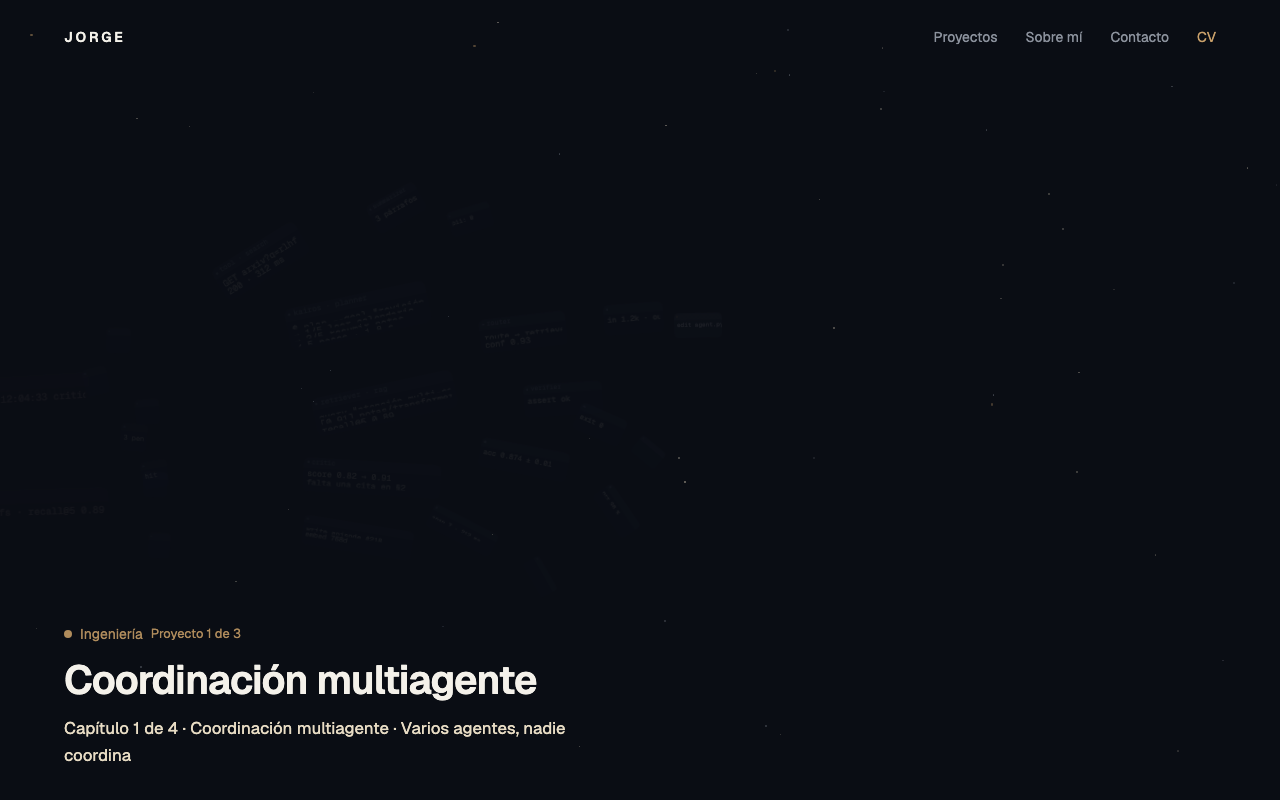
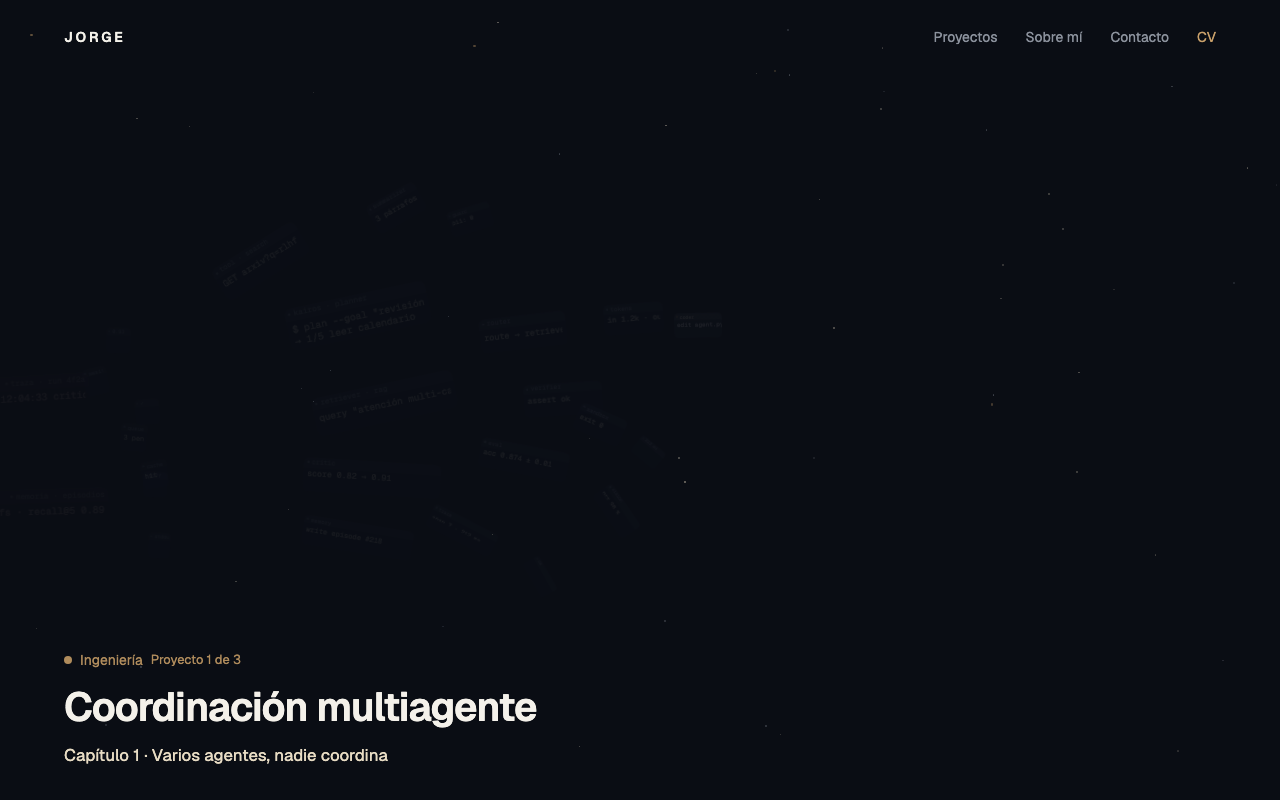
fix(f6): nombres y líneas de las ventanas como la referencia; anticipo sin repetir el título

Changed region(s): [[0.0312, 0.7812, 0.4375, 0.9688]]

diff --git a/tests/e2e/hero.spec.ts b/tests/e2e/hero.spec.ts
@@ -315,3 +315,30 @@ test('CLS de la carga y entrada bajo 0,01', async ({ page }) => {
   );
   expect(cls).toBeLessThan(0.01);
 });
+
+test('escritorio: las 26 ventanas muestran su nombre y ninguna línea desborda', async ({
+  page,
+}) => {
+  await page.setViewportSize({ width: 1280, height: 800 });
+  await page.emulateMedia({ reducedMotion: 'reduce' });
+  await page.goto('/');
+  const nombres = page.locator('[data-hero-arte] .ventana-nombre');
+  await expect(nombres).toHaveCount(26);
+  for (const nombre of await nombres.all()) await expect(nombre).toBeVisible();
+  await expect(page.locator('.ventana--punta .ventana-nombre')).toHaveText(
+    'coder',
+  );
+  // Cada línea visible cabe entera dentro de su ventana (nl de la referencia).
+  const desbordes = await page.locator('[data-hero-arte] .ventana').evaluateAll(
+    (ventanas) =>
+      ventanas.filter((v) => {
+        const caja = v.getBoundingClientRect();
+        return [...v.querySelectorAll('.ventana-lineas span')].some((s) => {
+          if (getComputedStyle(s).display === 'none') return false;
+          const linea = s.getBoundingClientRect();
+          return linea.height > 0 && linea.bottom > caja.bottom + 1;
+        });
+      }).length,
+  );
+  expect(desbordes).toBe(0);
+});

diff --git a/docs/encargos/F6-hero.md b/docs/encargos/F6-hero.md
@@ -1,6 +1,6 @@
 # F6 · Hero: las dos manos, su entrada y la transición al relato
 
-**Estado:** en revisión
+**Estado:** aprobada
 **Rama:** solicitada `f6-hero` (no se pudo crear porque `.git` está fuera de las rutas escribibles; cambios en checkout `F6`, sin commits) · **Depende de:** F5 (en `main`) · **Escrito por:** Claude · **Fecha:** 2026-10-26
 
 > Cómo lanzarlo en Codex: *«Lee AGENTS.md y docs/encargos/F6-hero.md. Implementa solo ese encargo y termina con el informe que pide.»*
@@ -438,4 +438,22 @@ Ve rellenándolo **durante** el trabajo (una línea por paso de § 2) y complét
 - No se creó ni verificó una rama Git separada por la restricción de escritura en `.git`; todas las verificaciones listadas sí se ejecutaron en el checkout actual.
 
 ## Revisión
-‹Lo escribe Claude.›
+**Claude, 2026-10-26.** Una entrega excelente para el modelo usado: siguió el orden de § 2 y fue registrando en el informe cada paso con su verificación. Geometría, composición y animación son puras y tienen tests, y la composición final coincide con `hero-final.html` casi al píxel.
+
+### Correcciones de Claude
+1. **Nombres de las ventanas ocultos en escritorio.** Las reglas `data-nombre-t='false'` y `data-nombre-m='false'` habían quedado fuera de sus media queries, así que ocultaban también en escritorio el nombre de todas las ventanas pequeñas, incluida la punta «coder». Se quitaron del ámbito global.
+2. **Límite de líneas (`nl` de la referencia) sin aplicar**, con las líneas encogidas una encima de otra (`flex-shrink`). Ahora cada línea lleva `data-linea-d/t/m` según la fórmula de `renderVals()` (`calcularLineas`) y `flex: none`.
+3. **Cabecera del antebrazo** alineada a la derecha (`justify-content: flex-end`), como en la referencia: ahora se leen «traza · run 4f2a» y «memoria · episodios».
+4. **El anticipo repetía el título del proyecto.** Ahora usa la clave `hero.capitulo` («Capítulo 1 · Varios agentes, nadie coordina»), como en el diseño.
+5. **Prueba de regresión:** las 26 ventanas muestran su nombre en escritorio y ninguna línea visible se desborda.
+
+Las capturas se regeneraron con las correcciones.
+
+### Verificación
+`check` limpio, 117/117 tests, build sin advertencias, 169/169 e2e y `-g "hero" --repeat-each=3` estable. Revisión visual en el navegador a 1280 × 800, en reposo y a p = 1: la barra sigue en `hero` durante toda la fijación.
+
+### Para Jorge
+- **Los textos de las terminales son ilustrativos** (por ejemplo `acc 0.874`): `contenido:pendientes` los cuenta y bloquean el lanzamiento hasta que se sustituyan (F8).
+- **La mano sigue siendo la provisional** de 540 × 320 (licencia pendiente, F8).
+
+**Recomendación:** aprobada.
